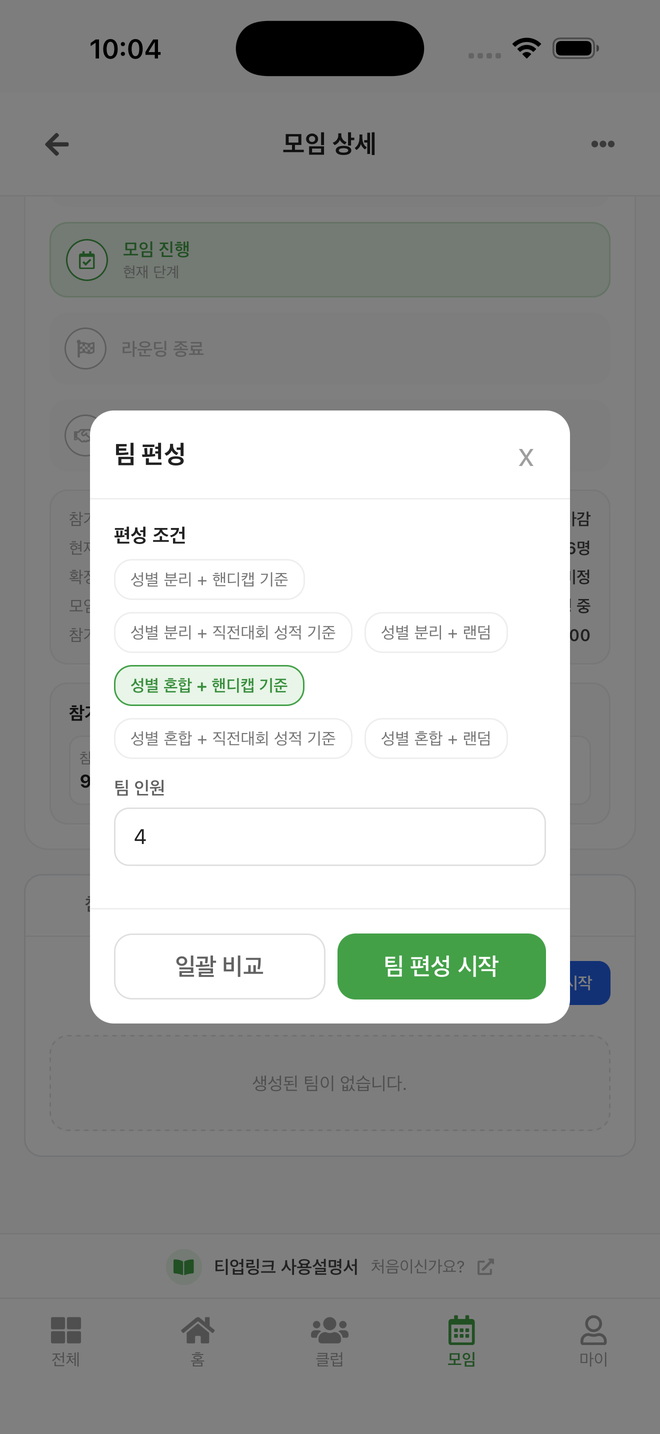
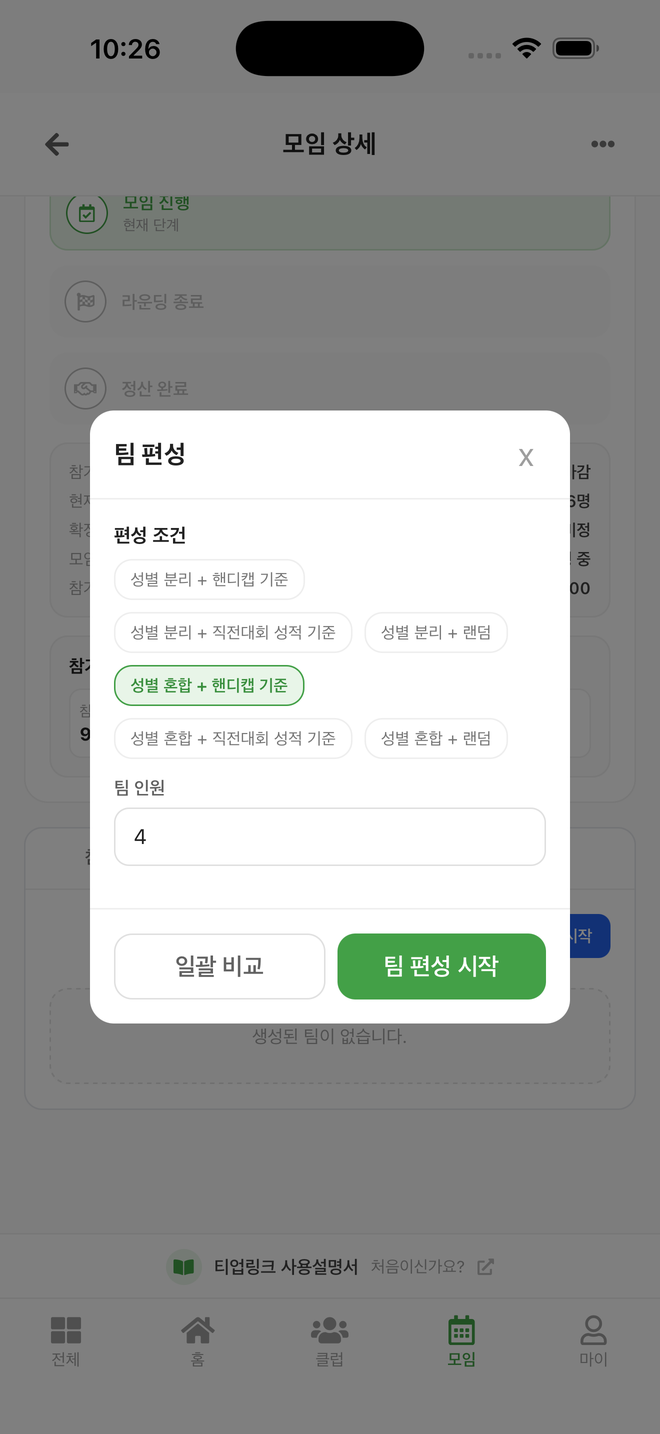
docs: 팀 편성 절차를 실제 동작으로 다시 작성
모달 버그를 고치고 실제 흐름을 끝까지 돌려서 다시 찍었다.
조건 선택 → 결과 미리보기 → 확정 → 손으로 수정, 4단계로 정리했다.

- 미리보기 단계(다시 편성 / 히스토리 저장 / 확정)가 통째로 빠져 있었다
- [편성 히스토리] 는 확정 후에 생긴다
- 자동 편성이 만드는 조 이름은 "팀 1" 형식이다

diff --git a/md/teeup-user-guide.md b/md/teeup-user-guide.md
@@ -282,27 +282,41 @@
 | 팀 인원 | 한 조에 몇 명씩 넣을지 (기본 4) |
 | 일괄 비교 | 여러 조건으로 짠 결과를 한 번에 비교해 봅니다 |
 
-**2단계 — 결과 확인**
+**2단계 — 결과 미리보기**
 
-편성이 끝나면 팀 탭에 조별 명단이 나옵니다.
+조건을 고르고 **[팀 편성 시작]** 을 누르면 "편성이 완료되었습니다" 안내가 뜨고, **[확인]** 을 누르면 결과를 먼저 보여줍니다. 아직 확정된 것은 아닙니다.
 
-![팀 편성 결과](guide/27-team-result.png)
+![팀 편성 결과 미리보기](guide/27-team-preview.png)
 
-조 이름 옆에 인원수가, 각 멤버에는 성별이 함께 표시됩니다. 버튼은 **[다시 편성하기]** 로 바뀝니다. 편성을 한 번이라도 돌리고 나면 옆에 **[편성 히스토리]** 가 생겨서 지난 편성 결과를 다시 볼 수 있습니다.
+맨 위에 적용된 편성 모드와 팀 크기가, 조마다 멤버와 핸디캡이 보입니다.
 
-**3단계 — 손으로 고치기**
+| 버튼 | 하는 일 |
+|---|---|
+| 다시 편성 | 같은 조건으로 다시 돌립니다. 결과가 마음에 안 들 때 |
+| 히스토리 저장 | 이번 결과를 기록으로 남깁니다. 나중에 **[편성 히스토리]** 에서 다시 봅니다 |
+| 확정 | 이 편성으로 결정합니다 |
+
+**3단계 — 확정**
+
+**[확정]** 을 누르면 팀 탭에 **편성 확정일**이 찍히고 조별 명단이 자리잡습니다.
+
+![팀 편성 확정](guide/28-team-result.png)
+
+버튼은 **[다시 편성하기]** 로 바뀌고 옆에 **[편성 히스토리]** 가 생깁니다.
+
+**4단계 — 손으로 고치기**
 
 **[다시 편성하기]** 를 누르면 **팀 편성 수정** 창이 열립니다. 자동 편성 결과를 그대로 쓰지 않고 손으로 바꿀 때 씁니다.
 
-![팀 편성 수정](guide/28-team-editor.png)
+![팀 편성 수정](guide/29-team-editor.png)
 
 맨 위 **미할당 참가자** 칸에 아직 조에 못 들어간 사람이 모입니다. 조마다 **총 핸디**가 같이 보여서 조별 전력을 맞추기 좋습니다.
 
 - 멤버 오른쪽 **→** 를 누르면 다른 조로 옮깁니다
 - **휴지통**을 누르면 그 멤버를 미할당으로 빼거나, 조 전체를 지웁니다
-- 조 이름 옆 **연필**로 이름을 바꿉니다 (1조, 2조 … 를 A조, B조 같은 식으로)
+- 조 이름 옆 **연필**로 이름을 바꿉니다 (팀 1, 팀 2 … 를 A조, B조 같은 식으로)
 
-![새 팀 추가](guide/29-team-editor-bottom.png)
+![새 팀 추가](guide/29b-team-editor-bottom.png)
 
 맨 아래 **+ 새 팀 추가**로 조를 하나 더 만들고, 다 고쳤으면 **[저장]** 을 누릅니다. **[취소]** 로 나가면 바뀐 내용은 버려집니다.
 
